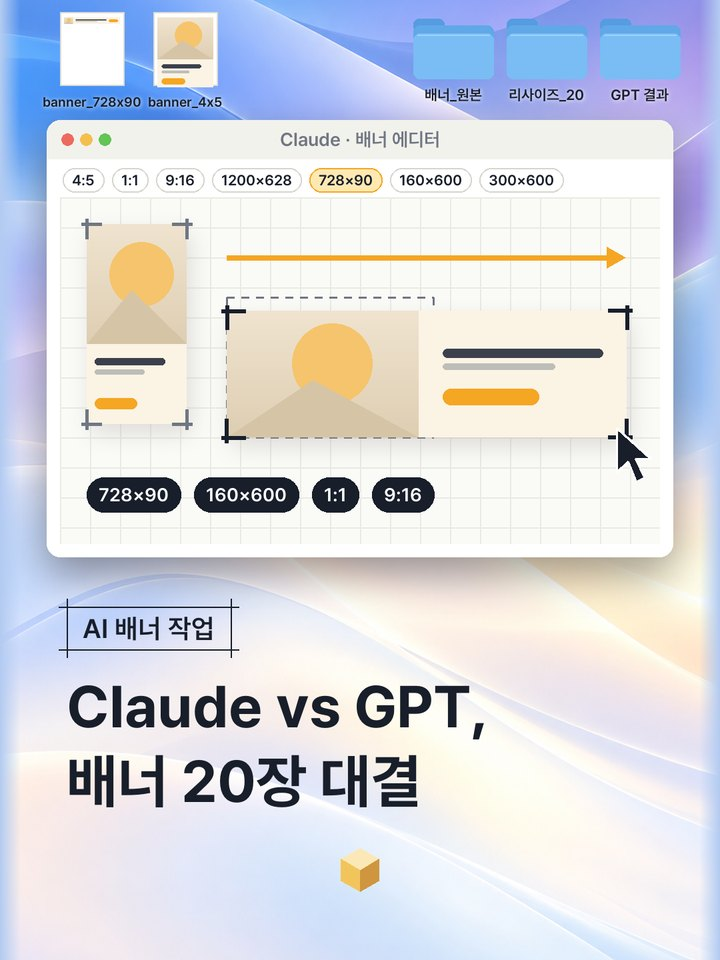
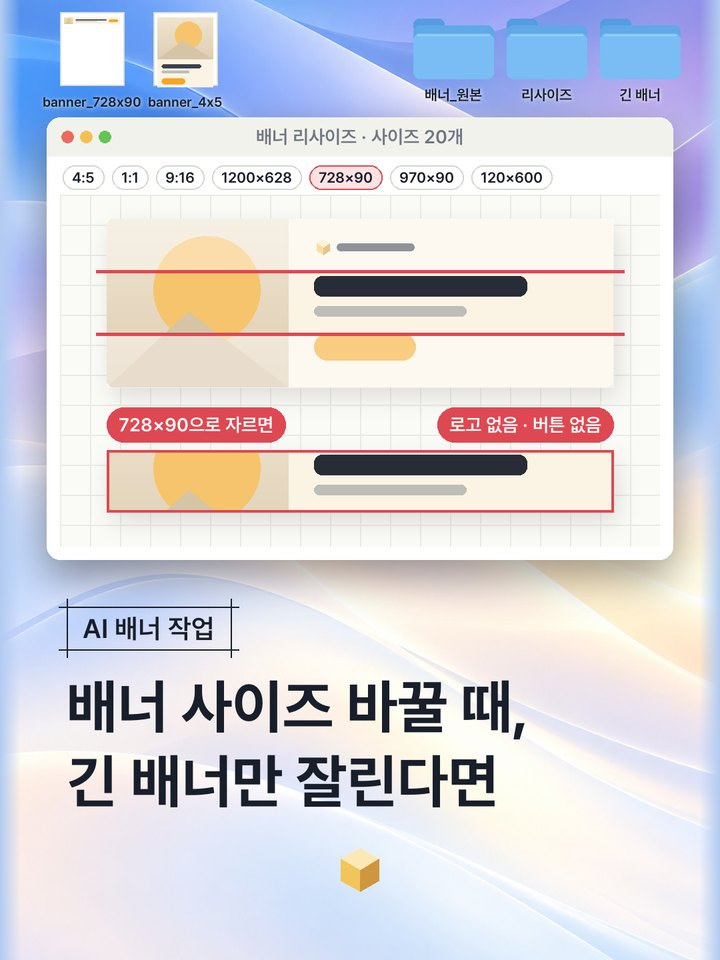
EP.14 v20 상세 노트 + 목록 카드 공개 (Soon! 해제 — 긴 배너만 잘린다면 · 템플릿이 주인공)

diff --git a/ep/14/index.html b/ep/14/index.html
@@ -3,10 +3,10 @@
 <head>
 <meta charset="utf-8">
 <meta name="viewport" content="width=device-width, initial-scale=1">
-<title>EP.14 Claude vs GPT, 배너 20장 대결 · 이거 모르는 마케터 없게 해주세요</title>
-<meta name="description" content="배너 사이즈 작업, Claude로 잡고 늘리는 배너 에디터를 만들고 GPT 이미지 생성과 비교해 봤어요. 사이즈만 바꿔 넣는 GPT 프롬프트 템플릿, 안전 영역 표, 에디터 만든 요청문, 실제 결과.">
-<meta property="og:title" content="EP.14 Claude vs GPT, 배너 20장 대결">
-<meta property="og:description" content="사이즈만 바꿔 넣는 GPT 배너 리사이즈 템플릿 + Claude 배너 에디터 만든 요청문.">
+<title>EP.14 배너 사이즈 바꿀 때, 긴 배너만 잘린다면 · 이거 모르는 마케터 없게 해주세요</title>
+<meta name="description" content="배너 사이즈 바꾸기는 GPT에 맡겨도 되지만, 728×90처럼 아주 긴 배너는 자르면 로고와 글자가 잘려요. 잘라도 남는 자리에만 글자를 넣게 하는 템플릿 전문, 사이즈 표, 시험 결과.">
+<meta property="og:title" content="EP.14 배너 사이즈 바꿀 때, 긴 배너만 잘린다면">
+<meta property="og:description" content="사이즈만 바꿔 넣는 GPT 배너 리사이즈 템플릿 + 사이즈별 남는 자리 표 + 시험 결과.">
 <meta property="og:image" content="https://goofee-9p.github.io/ai-marketing-honey/assets/img/og.jpg">
 <link rel="icon" type="image/svg+xml" href="../../assets/img/logo.svg">
 <link rel="apple-touch-icon" href="../../assets/img/apple-touch-icon.png">
@@ -23,14 +23,14 @@
 
   <div class="hero">
     <span class="chip">EP.14 · 배너 리사이즈</span>
-    <h1>Claude vs GPT,<br><span class="hl">배너 20장 대결</span></h1>
-    <p class="lead">배너 사이즈마다 PSD를 다시 열고 있다면, 원본 한 장으로 사이즈를 뽑아 보세요. "생성형 이미지 AI는 이거 못 해요"라고 콘텐츠를 짜다가 GPT도 돌려 봤는데, 생각보다 잘 뽑았어요. 그래서 둘 다 정리했어요.</p>
-    <div class="meta"><span class="chip ghost">GPT 프롬프트 템플릿</span><span class="chip ghost">안전 영역 표</span><span class="chip ghost">배너 에디터 요청문</span></div>
+    <h1>배너 사이즈 바꿀 때,<br><span class="hl">긴 배너만 잘린다면</span></h1>
+    <p class="lead">배너 사이즈마다 포토샵을 다시 열고 있다면, GPT에 원본이랑 사이즈 목록을 주세요. 배경까지 이어서 새로 그려 줘요. 다만 728×90처럼 아주 긴 배너는 그대로 자르면 로고와 글자가 잘려요. 그래서 잘라도 남는 자리에만 글자를 넣게 하는 템플릿을 만들었어요.</p>
+    <div class="meta"><span class="chip ghost">템플릿 전문</span><span class="chip ghost">사이즈별 남는 자리 표</span><span class="chip ghost">시험 결과</span></div>
   </div>
 
   <section>
-    <h2><span class="n">01</span>사이즈만 바꿔 넣는 GPT 템플릿</h2>
-    <p class="muted">ChatGPT에 <b>원본 배너 이미지를 첨부</b>하고 아래 템플릿을 붙여 넣어요. 맨 위 <b>'만들 사이즈'</b> 칸만 원하는 사이즈로 바꾸면 돼요. 나머지 규칙은 그대로 둬요.</p>
+    <h2><span class="n">01</span>사이즈만 바꿔 넣는 템플릿</h2>
+    <p class="muted">ChatGPT에 <b>원본 배너 이미지를 첨부</b>하고 아래 템플릿을 붙여 넣어요. 맨 위 <b>'만들 사이즈'</b> 칸만 원하는 사이즈로 바꾸고, 나머지 규칙은 그대로 둬요.</p>
     <div class="prompt" id="banner-template">
       <div class="label">배너 리사이즈 템플릿</div>
       <pre>[배너 리사이즈 템플릿]
@@ -54,24 +54,35 @@
   </section>
 
   <section>
-    <h2><span class="n">02</span>왜 '안전 영역'이 필요할까</h2>
-    <p class="muted">GPT 이미지 생성은 728×90 같은 <b>아주 길쭉한 비율을 그대로 못 그리고</b>, 3:1 정도로 그려 줘요. 그대로 잘라 쓰면 로고·글자·버튼이 잘려요. 실제로 처음 돌린 10장 중 4장의 비율이 요청과 달랐어요.</p>
+    <h2><span class="n">02</span>왜 긴 배너만 잘릴까</h2>
+    <p class="muted">GPT 이미지 생성은 728×90 같은 <b>아주 길쭉한 비율을 그대로 못 그리고</b>, 3:1 정도로 그려 줘요. 그걸 728×90으로 자르면 위아래가 잘려 나가면서 로고·글자·버튼도 같이 잘려요. 처음 돌린 10장 중 4장이 요청과 비율이 달랐어요.</p>
     <img src="../../assets/img/ep14/strip_cut.jpg" alt="728x90 요청에 3:1로 그려진 GPT 결과와, 728x90으로 잘랐을 때 로고와 글자가 잘린 모습" loading="lazy" style="width:100%;border-radius:16px;border:1.5px solid var(--line);display:block;margin-top:10px">
-    <p class="muted" style="margin-top:10px">그래서 템플릿은 "3:1로 그리되, 나중에 잘라 쓸 가운데 띠(안전 영역) 안에만 요소를 넣으라"고 시켜요. 사이즈마다 숫자를 표로 미리 넣어 둔 게 핵심이에요. 처음엔 GPT가 계산하게 했더니 970×90에서 로고가 잘렸어요.</p>
-    <div class="card" style="margin-top:12px"><b>표에 없는 사이즈는</b><p class="muted" style="margin:4px 0 0">가로 띠는 255 ÷ (가로÷세로) %, 세로 띠는 255 × (가로÷세로) %로 계산해 표에 한 줄 추가하세요. 예: 468×60 → 255 ÷ 7.8 ≈ 33%.</p></div>
+    <p class="muted" style="margin-top:10px">템플릿은 "3:1로 그리되, <b>잘라도 남는 가운데 자리</b>에만 로고·헤드라인·버튼을 넣으라"고 시켜요. 사이즈마다 남는 자리를 % 숫자로 표에 넣어 둔 게 핵심이에요. 숫자 없이 GPT가 계산하게 했더니 970×90에서 로고가 잘렸어요.</p>
+    <div class="card" style="margin-top:12px"><b>표에 없는 사이즈는</b><p class="muted" style="margin:4px 0 0">가로로 긴 배너는 255 ÷ (가로÷세로) %, 세로로 긴 배너는 255 × (가로÷세로) %로 계산해 표에 한 줄 추가하세요. 예: 468×60 → 255 ÷ 7.8 ≈ 33%.</p></div>
   </section>
 
   <section>
-    <h2><span class="n">03</span>실제로 돌려 본 결과</h2>
-    <p class="muted">템플릿으로 728×90 · 970×90 · 120×600을 뽑아 정확한 사이즈로 잘랐어요. 로고 · 헤드라인 · 버튼이 모두 남았어요(2026-10-24, ChatGPT 웹).</p>
+    <h2><span class="n">03</span>시험해 본 결과</h2>
+    <p class="muted">템플릿으로 728×90 · 970×90 · 120×600을 뽑아 정확한 사이즈로 잘랐어요. 세 개 모두 로고 · 헤드라인 · 버튼이 남았어요(2026-10-24, ChatGPT 웹).</p>
     <img src="../../assets/img/ep14/template_result.jpg" alt="템플릿으로 뽑아 자른 728x90, 970x90, 120x600 배너" loading="lazy" style="width:100%;border-radius:16px;border:1.5px solid var(--line);display:block;margin-top:10px">
-    <div class="card" style="margin-top:12px"><b>오히려 GPT가 나은 점</b><p class="muted" style="margin:4px 0 0">사이즈마다 배경(천·빛)을 끝까지 이어 그려서 빈 데가 없어요. 아래 Claude 에디터는 사진과 판을 나눠 배치해서 단정하지만, 세로로 긴 사이즈에선 여백이 남았어요.</p></div>
-    <img src="../../assets/img/ep14/gpt_chat.jpg" alt="ChatGPT 대화창에서 생성된 배너 이미지들" loading="lazy" style="width:100%;border-radius:16px;border:1.5px solid var(--line);display:block;margin-top:10px">
   </section>
 
   <section>
-    <h2><span class="n">04</span>잡고 늘리는 배너 에디터 (Claude)</h2>
-    <p class="muted">영상 처음에 나온 에디터예요. claude.ai 채팅에 원본 배너를 첨부하고 아래처럼 요청하면 <b>아티팩트</b>로 만들어 줘요. 모서리를 잡고 늘리면 정사각 · 세로 · 가로 띠에 맞춰 배치가 바뀌어요. 글자와 로고는 실제 글자로 다시 넣어서 어떤 크기에서도 안 깨져요.</p>
+    <h2><span class="n">04</span>써 보기 전에 꼭</h2>
+    <div class="warn">
+      <ul>
+        <li><b>시험한 건 긴 배너 3개(728×90 · 970×90 · 120×600)예요.</b> 표의 다른 사이즈는 결과를 꼭 눈으로 확인하세요.</li>
+        <li>ChatGPT 이미지 생성은 <b>한 번에 10장</b>까지예요.</li>
+        <li>GPT는 제품을 <b>원본 픽셀 그대로가 아니라 새로 그려요.</b> 라벨 글자나 색이 미묘하게 달라질 수 있어서, 실제 제품 광고라면 제품 컷은 원본으로 바꿔 끼우는 게 안전해요.</li>
+        <li>문구도 가끔 바뀌어요. "한 글자도 바꾸지 마"를 넣었지만 올리기 전에 꼭 대조하세요.</li>
+        <li>매체별 규격은 바뀔 수 있어요. 구글은 공식 도움말, 메타는 광고 가이드, 네이버 GFA는 관리자 화면에서 최신 사이즈를 확인하세요.</li>
+      </ul>
+    </div>
+  </section>
+
+  <section>
+    <h2><span class="n">05</span>덤: 잡고 늘리는 배너 에디터 (Claude)</h2>
+    <p class="muted">이미지를 새로 그리는 대신 <b>원본 요소를 다시 배치</b>하고 싶다면, claude.ai 채팅에 원본 배너를 첨부하고 아래처럼 요청해 보세요. 모서리를 잡고 늘리면 정사각 · 세로 · 가로 띠에 맞춰 배치가 바뀌는 페이지(아티팩트)를 만들어 줘요.</p>
     <img src="../../assets/img/ep14/editor.jpg" alt="Claude 배너 에디터에서 1:1, 9:16, 1.91:1, 728x90으로 늘린 모습" loading="lazy" style="width:100%;border-radius:16px;border:1.5px solid var(--line);display:block;margin-top:10px">
     <div class="prompt" id="editor-request">
       <div class="label">① 에디터 만들기</div>
@@ -86,19 +97,6 @@
 2. 끌다가 자주 쓰는 사이즈(1:1, 4:5, 9:16, 1.91:1, 728×90, 160×600, 300×250) 비율 근처에 오면 그 비율로 착 달라붙고, 붙은 동안 배너 위에 &#x27;1080×1080&#x27;처럼 사이즈 이름 배지를 잠깐 보여 줘.
 나머지 디자인과 배치 규칙은 그대로 둬.</pre>
       <p class="tip">💡 에디터는 사이즈를 바꿔 '보는' 도구예요. 매체에 올릴 PNG는 Claude에 "사이즈별로 PNG로 저장할 수 있게 해 줘"라고 한 번 더 요청하세요.</p>
-    </div>
-  </section>
-
-  <section>
-    <h2><span class="n">05</span>써 보기 전에 꼭</h2>
-    <div class="warn">
-      <ul>
-        <li><b>20개 전체로는 아직 안 돌려 봤어요.</b> 템플릿은 실패했던 띠 배너 3개(728×90 · 970×90 · 120×600)로 다시 확인했어요. 다른 사이즈는 결과를 꼭 눈으로 확인하세요.</li>
-        <li>ChatGPT 이미지 생성은 <b>한 번에 10장</b>까지예요.</li>
-        <li>GPT는 제품을 <b>원본 픽셀 그대로가 아니라 새로 그려요.</b> 라벨 글자나 색이 미묘하게 달라질 수 있어서, 실제 제품 광고라면 제품 컷은 원본으로 바꿔 끼우는 게 안전해요.</li>
-        <li>문구도 가끔 바뀌어요. "한 글자도 바꾸지 마"를 넣었지만 올리기 전에 꼭 대조하세요.</li>
-        <li>매체별 규격은 바뀔 수 있어요. 구글은 공식 도움말, 메타는 광고 가이드, 네이버 GFA는 관리자 화면에서 최신 사이즈를 확인하세요.</li>
-      </ul>
     </div>
   </section>
 

diff --git a/index.html b/index.html
@@ -50,11 +50,10 @@
         <div><div class="no">EP.15</div><div class="t">배포 링크 보냈는데, 팀원은 로그인 창만</div><div class="d">보낼 링크는 따로 있어요. 링크 3종류 비교 + 짧은 링크 찾는 곳 + GitHub 연결 요청문 + 무료 플랜 조건.</div></div>
         <span class="badge">Soon!</span>
       </div>
-      <div class="ep soon" aria-label="EP.14 곧 공개">
+      <a class="ep" href="ep/14/">
         <img src="assets/img/ep14/cover_34.jpg" alt="EP.14 커버">
-        <div><div class="no">EP.14</div><div class="t">Claude vs GPT, 배너 20장 대결</div><div class="d">PSD 다시 열지 마세요. 사이즈만 바꿔 넣는 GPT 프롬프트 템플릿 + Claude 배너 에디터 요청문 + 실제 결과.</div></div>
-        <span class="badge">Soon!</span>
-      </div>
+        <div><div class="no">EP.14</div><div class="t">배너 사이즈 바꿀 때, 긴 배너만 잘린다면</div><div class="d">사이즈만 바꿔 넣는 GPT 템플릿 + 사이즈별 남는 자리 표 + 긴 배너 3개 시험 결과.</div></div>
+      </a>
       <a class="ep" href="ep/13/">
         <img src="assets/img/ep13/cover_34.jpg" alt="EP.13 커버">
         <div><div class="no">EP.13</div><div class="t">터진 공식 따라 했는데 왜 내 건 안 터질까</div><div class="d">남의 공식 말고 옆 계정 숫자로. 비슷한 계정 고르는 법 + 받아 적기 · 구간별 정리 프롬프트 + 실제 결과.</div></div>
